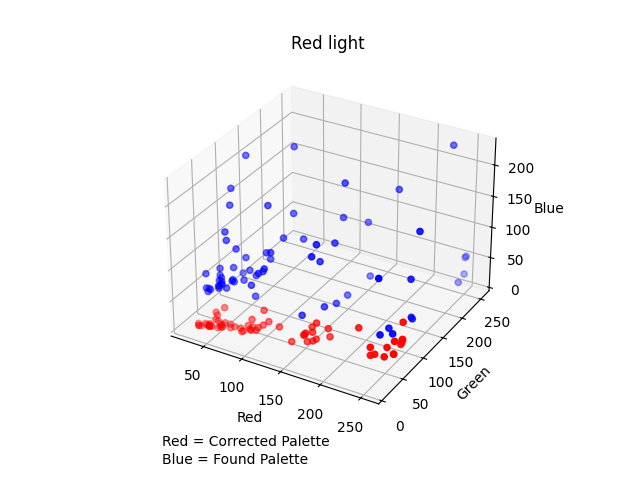
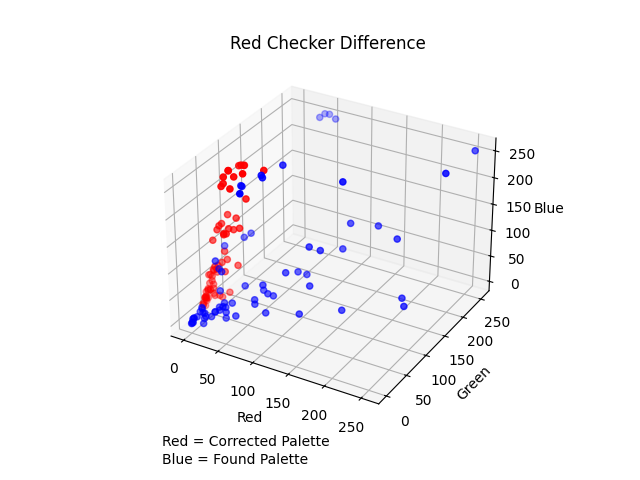
added chinese mans DeHazer, and fixed colcaltest  plot imegas

diff --git a/P3/DCTest.py b/P3/DCTest.py
@@ -1,0 +1,101 @@
+import cv2
+import math
+import numpy as np
+
+def DarkChannel(im,sz):
+    b,g,r = cv2.split(im)
+    dc = cv2.min(cv2.min(r,g),b)
+    kernel = cv2.getStructuringElement(cv2.MORPH_RECT,(sz,sz))
+    dark = cv2.erode(dc,kernel)
+    return dark
+
+def AtmLight(im,dark):
+    [h,w] = im.shape[:2]
+    imsz = h*w
+    numpx = int(max(math.floor(imsz/1000),1))
+    darkvec = dark.reshape(imsz)
+    imvec = im.reshape(imsz,3)
+
+    indices = darkvec.argsort()
+    indices = indices[imsz-numpx::]
+
+    atmsum = np.zeros([1,3])
+    for ind in range(1,numpx):
+       atmsum = atmsum + imvec[indices[ind]]
+
+    A = atmsum / numpx
+    return A
+
+def TransmissionEstimate(im,A,sz):
+    omega = 0.95
+    im3 = np.empty(im.shape,im.dtype)
+
+    for ind in range(0,3):
+        im3[:,:,ind] = im[:,:,ind]/A[0,ind]
+
+    transmission = 1 - omega*DarkChannel(im3,sz)
+    return transmission
+
+def Guidedfilter(im,p,r,eps):
+    mean_I = cv2.boxFilter(im,cv2.CV_64F,(r,r))
+    mean_p = cv2.boxFilter(p, cv2.CV_64F,(r,r))
+    mean_Ip = cv2.boxFilter(im*p,cv2.CV_64F,(r,r))
+    cov_Ip = mean_Ip - mean_I*mean_p
+
+    mean_II = cv2.boxFilter(im*im,cv2.CV_64F,(r,r))
+    var_I   = mean_II - mean_I*mean_I
+
+    a = cov_Ip/(var_I + eps)
+    b = mean_p - a*mean_I
+
+    mean_a = cv2.boxFilter(a,cv2.CV_64F,(r,r))
+    mean_b = cv2.boxFilter(b,cv2.CV_64F,(r,r))
+
+    q = mean_a*im + mean_b
+    return q
+
+def TransmissionRefine(im,et):
+    gray = cv2.cvtColor(im,cv2.COLOR_BGR2GRAY)
+    gray = np.float64(gray)/255
+    r = 60
+    eps = 0.0001
+    t = Guidedfilter(gray,et,r,eps)
+
+    return t
+
+def Recover(im,t,A,tx = 0.1):
+    res = np.empty(im.shape,im.dtype)
+    t = cv2.max(t,tx)
+
+    for ind in range(0,3):
+        res[:,:,ind] = (im[:,:,ind]-A[0,ind])/t + A[0,ind]
+
+    return res
+
+if __name__ == '__main__':
+    import sys
+    try:
+        fn = sys.argv[1]
+    except:
+        fn = './image/15.png'
+
+    def nothing(*argv):
+        pass
+
+    src = cv2.imread("P3\Results\Data\Milk/32th_Milk\Beside_Camera_20241611_121705.png")
+
+    I = src.astype('float64')/255
+ 
+    dark = DarkChannel(I,15)
+    A = AtmLight(I,dark)
+    te = TransmissionEstimate(I,A,15)
+    t = TransmissionRefine(src,te)
+    J = Recover(I,t,A,0.1)
+
+    cv2.imshow("dark",dark)
+    cv2.imshow("t",t)
+    cv2.imshow('I',src)
+    cv2.imshow('J',J)
+    cv2.imwrite("./image/J.png",J*255)
+    cv2.waitKey()
+    

diff --git a/P3/Objective_testing/APalTest.py b/P3/Objective_testing/APalTest.py
@@ -2,6 +2,7 @@ import os
 import sys
 import numpy as np
 import matplotlib.pyplot as plt
+import cv2 as cv
 global checkertest
 checkertest = False
 
@@ -10,6 +11,13 @@ sys.path.append(project_root)
 from P3.ColorCorrection import ColourCorrectMain as cc
 
 def get_pal_diff(ref_pal, checker, corrected_palette):
+    ref_pal = cv.cvtColor(ref_pal, cv.COLOR_BGR2RGB)
+    checker = cv.cvtColor(checker, cv.COLOR_BGR2RGB)
+    corrected_palette = cv.cvtColor(corrected_palette, cv.COLOR_BGR2RGB)
+
+
+
+
     ## get palette difference
     print("Getting Checker Difference")
     org_pal = cc.get_color_patches(ref_pal)
@@ -33,11 +41,12 @@ def get_pal_diff(ref_pal, checker, corrected_palette):
     ax.text2D(0.05, -0.05, "Red = Corrected Palette", transform=ax.transAxes)
     ax.text2D(0.05, -0.1, "Blue = Found Palette", transform=ax.transAxes)
 
+    #set plot title
+    ax.set_title('Yellow Checker Difference')
+
     ax.set_xlabel('Red')
     ax.set_ylabel('Green')
     ax.set_zlabel('Blue')
-
-    #
 
     plt.show()
 
